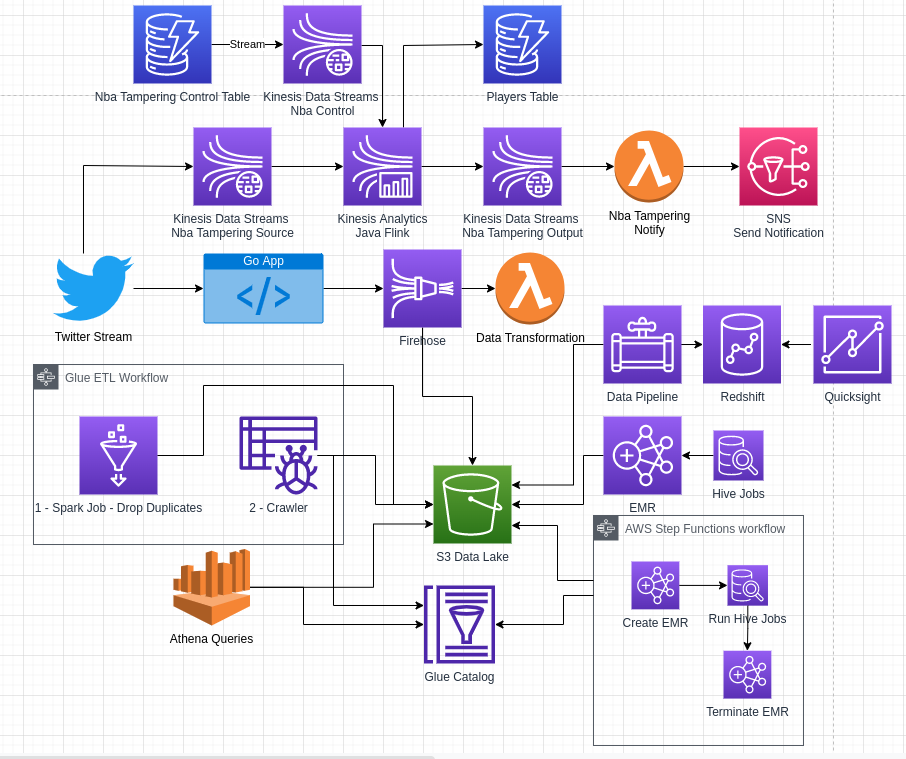
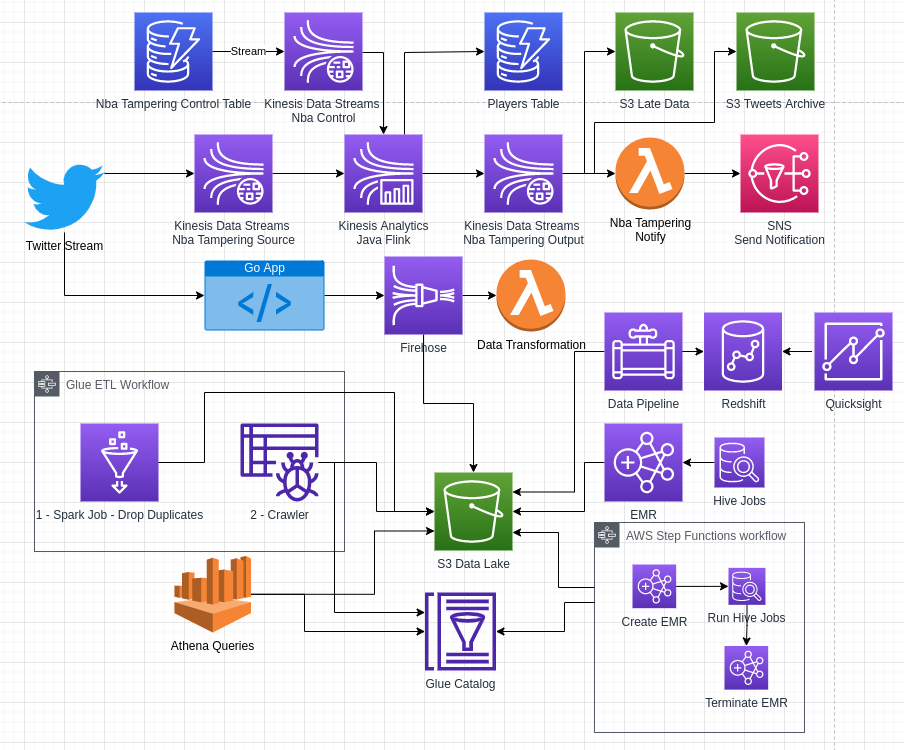
Add Side Outputs to handle late data and historic data

Changed region(s): [[0.031, 0.0, 0.9912, 1.0], [0.0, 0.9813, 0.4956, 1.0]]

diff --git a/08-flink-java/nba-tampering-flink/src/main/java/nbaTamperingFlink/StreamingJob.java b/08-flink-java/nba-tampering-flink/src/main/java/nbaTamperingFlink/StreamingJob.java
@@ -3,27 +3,29 @@ package nbaTamperingFlink;
 import java.io.FileInputStream;
 import java.io.FileNotFoundException;
 import java.io.IOException;
-import java.security.Timestamp;
 import java.time.Duration;
-import java.time.Instant;
 import java.util.*;
 
 import com.amazonaws.services.kinesisanalytics.runtime.KinesisAnalyticsRuntime;
 import com.amazonaws.services.kinesisanalytics.runtime.models.PropertyGroup;
 import org.apache.flink.api.common.eventtime.WatermarkStrategy;
 import org.apache.flink.api.common.functions.RichMapFunction;
+import org.apache.flink.api.common.serialization.SimpleStringEncoder;
 import org.apache.flink.api.common.serialization.SimpleStringSchema;
 import org.apache.flink.api.common.state.ValueState;
 import org.apache.flink.api.common.state.ValueStateDescriptor;
 import org.apache.flink.api.java.functions.KeySelector;
 import org.apache.flink.api.java.tuple.Tuple2;
 import org.apache.flink.configuration.Configuration;
+import org.apache.flink.core.fs.Path;
 import org.apache.flink.shaded.jackson2.com.fasterxml.jackson.databind.JsonNode;
 import org.apache.flink.shaded.jackson2.com.fasterxml.jackson.databind.ObjectMapper;
 import org.apache.flink.shaded.jackson2.com.fasterxml.jackson.databind.node.ObjectNode;
 import org.apache.flink.streaming.api.datastream.DataStream;
+import org.apache.flink.streaming.api.datastream.SingleOutputStreamOperator;
 import org.apache.flink.streaming.api.environment.StreamExecutionEnvironment;
 import org.apache.flink.streaming.api.functions.co.RichCoFlatMapFunction;
+import org.apache.flink.streaming.api.functions.sink.filesystem.StreamingFileSink;
 import org.apache.flink.streaming.api.functions.windowing.ProcessWindowFunction;
 import org.apache.flink.streaming.api.windowing.assigners.TumblingEventTimeWindows;
 import org.apache.flink.streaming.api.windowing.time.Time;
@@ -33,6 +35,7 @@ import org.apache.flink.streaming.connectors.kinesis.FlinkKinesisProducer;
 import org.apache.flink.streaming.connectors.kinesis.config.AWSConfigConstants;
 import org.apache.flink.streaming.connectors.kinesis.config.ConsumerConfigConstants;
 import org.apache.flink.util.Collector;
+import org.apache.flink.util.OutputTag;
 import software.amazon.awssdk.core.pagination.sync.SdkIterable;
 import software.amazon.awssdk.enhanced.dynamodb.*;
 import software.amazon.awssdk.enhanced.dynamodb.model.Page;
@@ -45,6 +48,8 @@ import static software.amazon.awssdk.enhanced.dynamodb.model.QueryConditional.ke
 
 public class StreamingJob {
 
+	private static final OutputTag<Tweet> allOutputTag = new OutputTag<Tweet>("all-tweets") {};
+
 	public static void main(String[] args) throws Exception {
 		Map<String, Properties> applicationProperties;
 		if (Boolean.parseBoolean(System.getenv("IS_LOCAL"))) {
@@ -56,6 +61,8 @@ public class StreamingJob {
 		Properties tweetsConsumerProperties = applicationProperties.get("TweetsConsumerConfig");
 		Properties producerProperties = applicationProperties.get("ProducerConfig");
 		Properties appProperties = applicationProperties.get("ApplicationConfig");
+		Properties lateProducerProperties = applicationProperties.get("LateDataProducer");
+		Properties allTweetsProducerProperties = applicationProperties.get("AllTweetsProducer");
 
 		Properties consumerControlConfig = new Properties();
 		consumerControlConfig.put(AWSConfigConstants.AWS_REGION, controlConsumerProperties.get("aws.region"));
@@ -69,8 +76,9 @@ public class StreamingJob {
 		sinkProperties.put(AWSConfigConstants.AWS_REGION, producerProperties.getProperty("aws.region"));
 
 		StreamExecutionEnvironment env = StreamExecutionEnvironment.getExecutionEnvironment();
-//		Configuration conf = new Configuration();
 //		StreamExecutionEnvironment env = StreamExecutionEnvironment.createLocalEnvironmentWithWebUI(conf);
+
+		final OutputTag<Tweet> lateOutputTag = new OutputTag<Tweet>("late-data"){};
 
 		WatermarkStrategy<Tweet> ws = WatermarkStrategy
 				.<Tweet>forBoundedOutOfOrderness(Duration.ofSeconds(Integer.parseInt(appProperties.getProperty("watermark.seconds"))))
@@ -79,11 +87,13 @@ public class StreamingJob {
 
 		DataStream<Tuple2<String, Boolean>> tamperingControl = env
 				.addSource(new FlinkKinesisConsumer<>(controlConsumerProperties.getProperty("input.stream.name"), new SimpleStringSchema(), consumerControlConfig))
+				.name("Tampering Control")
 				.map(new EnrichControl())
 				.keyBy(value -> value.f0);
 
 		DataStream<Tweet> tweets = env
 				.addSource(new FlinkKinesisConsumer<>(tweetsConsumerProperties.getProperty("input.stream.name"), new SimpleStringSchema(), consumerTweetsConfig))
+				.name("Tweets")
 				.map(new EnrichTweet())
 				.keyBy(value -> value.getSourcePlayer().getTeam());
 
@@ -92,9 +102,18 @@ public class StreamingJob {
 		kinesisSink.setDefaultStream(producerProperties.getProperty("output.stream.name"));
 		kinesisSink.setDefaultPartition("0");
 
-		tamperingControl
+		final StreamingFileSink<Tweet> s3Sink = StreamingFileSink
+				.forRowFormat(new Path(lateProducerProperties.getProperty("s3.path")), new SimpleStringEncoder<Tweet>(lateProducerProperties.getProperty("encoder")))
+				.build();
+
+		final StreamingFileSink<Tweet> s3AllSink = StreamingFileSink
+				.forRowFormat(new Path(allTweetsProducerProperties.getProperty("s3.path")), new SimpleStringEncoder<Tweet>(allTweetsProducerProperties.getProperty("encoder")))
+				.build();
+
+		SingleOutputStreamOperator<String> result = tamperingControl
 				.connect(tweets)
 				.flatMap(new TamperingControl())
+				.name("Map Tweets with Control")
 				.assignTimestampsAndWatermarks(ws)
 				.keyBy(new KeySelector<Tweet, Tuple2<String, String>>() {
 					@Override
@@ -104,8 +123,16 @@ public class StreamingJob {
 				})
 				.window(TumblingEventTimeWindows.of(Time.seconds(Integer.parseInt(appProperties.getProperty("window.seconds")))))
 				.allowedLateness(Time.seconds(Integer.parseInt(appProperties.getProperty("lateness.seconds"))))
+				.sideOutputLateData(lateOutputTag)
 				.process(new MyProcessWindowFunction())
-				.addSink(kinesisSink);
+				.name("Process Tampering");
+
+		DataStream<Tweet> lateStream = result.getSideOutput(lateOutputTag);
+		DataStream<Tweet> allTweetsStream = result.getSideOutput(allOutputTag);
+
+		result.addSink(kinesisSink).name("Result Events");
+		lateStream.addSink(s3Sink).name("Late Events");
+		allTweetsStream.addSink(s3AllSink).name("All Events");
 
 		// execute program
 		env.execute("Flink Streaming Java API Nba Tampering");
@@ -242,6 +269,7 @@ public class StreamingJob {
 					count++;
 					players.add(in.getSourcePlayer().getName());
 				}
+				context.output(allOutputTag, in);
 			}
 
 			if (count > 1) {

diff --git a/07-datagen/data-gen.py b/07-datagen/data-gen.py
@@ -56,7 +56,50 @@ def get_data():
     }
 
 
+# def get_data_late(event_time):
+#     return {
+#         'event_time': event_time,
+#         'data': [{
+#             "text": "Dummy Text",
+#             "context_annotations": [
+#                 {
+#                     "domain": {
+#                         "id": "3",
+#                         "name": "TV Shows",
+#                         "description": "Television shows from around the world"
+#                     },
+#                     "entity": {
+#                         "id": "10000607734",
+#                         "name": "NBA Basketball",
+#                         "description": "All the latest basketball action from the NBA."
+#                     }
+#                 },
+#                 {
+#                     "domain": {
+#                         "id": "60",
+#                         "name": "Athlete",
+#                         "description": "An athlete in the world, like Serena Williams or Lionel Messi"
+#                     },
+#                     "entity": {
+#                         "id": "1142269203002454017",
+#                         "name": random.choice(destination_players)
+#                     }
+#                 }
+#
+#             ],
+#             "id": randint(),
+#         }],
+#         'includes': {
+#             "users": [
+#                 {
+#                     "username": random.choice(source_players),
+#                 }
+#             ]
+#         }
+#     }
+
 def generate(stream_name, kinesis_client):
+    #event_time = round(time.time() * 1000)
     while True:
         data = get_data()
         print(data)
@@ -65,6 +108,12 @@ def generate(stream_name, kinesis_client):
             Data=json.dumps(data),
             PartitionKey="partitionkey")
         time.sleep(2)
+#         late_event = get_data_late(event_time)
+#         print("Late Event")
+#         kinesis_client.put_record(
+#                     StreamName=stream_name,
+#                     Data=json.dumps(late_event),
+#                     PartitionKey="partitionkey")
 
 
 if __name__ == '__main__':

diff --git a/README.md b/README.md
@@ -99,6 +99,7 @@ The Kinesis Data Analytics application develop in Flink, detects if a players fr
 The result is sent to a kinesis Data stream consumed by a lambda. The lambda sent a notifications via SNS.
 This application uses another stream to control if team is allowed to do tampering. The source of this stream is dynamodb kinesis stream.
 This application also uses Dynamodb Table to reference data.
+The Late data is sent to an S3 Bucket, and all tweets also are sent to another S3 data to archive.
 
 ![Notification](NbaTamperingEmail.png)
 
@@ -109,6 +110,7 @@ Flink Features in This App:
 * Stateful Stream Processing
 * Timely Stream Processing With Watermarks and Event Time
 * Windowing Processing
+* Side Outputs To Late Events and All Tweets
 
 ## Getting Started
 
@@ -241,8 +243,6 @@ make data-gen
 * Glue
   * Glue DataBrew
 * Kinesis Data Analytics
-  * And latency and add Late Events with Side Output
-  * Flink UI (name and uid)
   * Integrate with GLUE Schema registry [Link](https://docs.aws.amazon.com/glue/latest/dg/schema-registry-integrations.html)
 * Firehose
   * Enable Comprehension 
